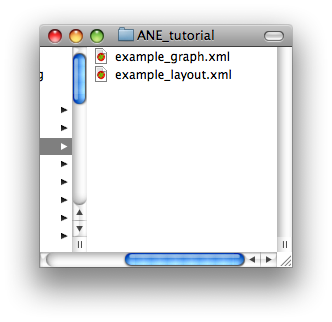
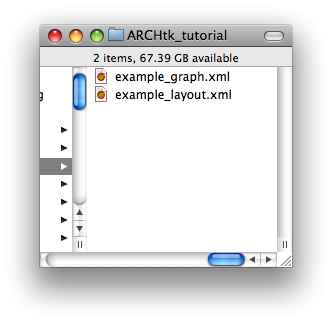
tutorial is being implemented

diff --git a/tutorial.html b/tutorial.html
@@ -9,14 +9,14 @@ title: Tutorial
     <div class="screenshot_container">
             <img class="screenshot" src="media/mainWindow.png" alt="Starting screen">
     </div>
-You see the toolbar on the top, some other tool buttons on the left and the editing area (the light gray dotted portion) in the middle of the screen.<br />The status bar at the bottom of the screen provides messages on the application status (now it says 'Ready') and also useful hints about the functionalities of the tools when the mouse is on any icon. All the functionalities displayed on the screen can also be accessed from the menu bar at the top of the screen.<br /><br />Selecting the green 'PLUS' icon (addSegment tool) on top of the left buttons allows you to create new edges of the network. Just click in the editor area, drag and release.
+You see the toolbar on the top, some other tool buttons on the left and the editing area (the light gray dotted portion) in the middle of the screen.<br />The status bar at the bottom of the screen provides messages on the application status (now it says 'Ready') and also useful hints about the functionalities of the tools when the mouse is on any icon. All the functionalities displayed on the screen can also be accessed from the menu bar at the top of the screen (the menu bar is not shown in the picture).<br /><br />Selecting the <b>'GREEN PLUS'</b> icon (addSegment tool) on top of the left buttons allows you to create new edges of the network. Just click in the editor area, drag and release.
     <div class="screenshot_container">
             <img class="screenshot" src="media/firstEdgeCreation.png" alt="First edge">
     </div>
 The showGrid and snapToGrid options are activated by default. If you don't like them, just deselect the corresponding icons in the toolbar.
     <div class="icons_container">
-            <img class="icon" src="media/grid.png" alt="First edge">
-            <img class="icon" src="media/snapToGrid.png" alt="First edge">
+            <img class="icon" src="media/grid.png" alt="Grid">
+            <img class="icon" src="media/snapToGrid.png" alt="Snap to Grid">
     </div>
 You can add other edges by clicking, dragging and releasing.<br />
      <div class="screenshot_container">
@@ -26,28 +26,27 @@ Clicking on a node when the mouse-cursor is close to it (the node is yellow-high
     <div class="screenshot_container">
             <img class="screenshot" src="media/connectedEdges.png" alt="Connected edges">
     </div>
-The same applyies on mouse release: releasing the mouse when the cursor is close to a node (again, yellow-highlighted), connects the edge the edges owning the node.
+The same applyies on mouse release: releasing the mouse when the cursor is close to a node (again, yellow-highlighted), connects the edge to the edges owning the node.
     <div class="screenshot_container">
             <img class="screenshot" src="media/moreConnections.png" alt="More connections">
     </div>
-After all this work, it's time to save our network. Click on the 'DISK' icon in the toolbar, insert the name (example) and the location (ARCH Network Editor tutorial: ANE_tutorial folder) you want the network to be saved and that's it!
+After all this work, it's time to save our network. Click on the <b>'DISK'</b> icon in the toolbar, insert the name (here we use example) and the location (for us ARCHtk: ARCHtk_tutorial folder) you want the network to be saved in and that's it!
     <div class="screenshot_container">
             <img class="screenshot" src="media/exampleSaved.png" alt="Example has been saved">
     </div>
-Let's have a look at the files the application has saved. 
+The name of the network is written at the top of the window application: before it was 'untitled', now it is 'example'.<br />Let's have a look at the files the application has saved. 
     <div class="screenshot_container">
             <img class="smallShot" src="media/exampleFolder.png" alt="Files in the folder">
     </div>
-There is an example_graph.xml file and an example_layout.xml file. The first (_graph.xml) has all the information about how nodes and edges are connected, while the second (_layout.xml) stores the graphical appearance of the network.<br />
-This two files (and also the _mesh.xml file that we will see later) should always stay in the same folder to allow the application to work with them.<br />Going back to our example, click on an edge and drag to make it to become curved. 
+There is an example_graph.xml file and an example_layout.xml file. The first (_graph.xml) has all the information about how nodes and edges are connected, while the second (_layout.xml) stores the graphical appearance of the network.<br />These two files (and also the _mesh.xml file that we will see later) should always stay in the same folder to allow the application to work with them.<br />Going back to our example, click on an edge (still with the addSegment tool selected) and drag to make it to become curved. 
     <div class="screenshot_container">
             <img class="screenshot" src="media/curvedEdge.png" alt="The edge is curved now">
     </div>
-This is useful when you have an intricated network and you want to see something which is beyond one edge.<br /><br />If you select the red 'CROSS' icon (removeSegment tool) below the addSegment icon, you can remove edges form the network.
+This is useful when you have an intricated network and you want to see something which is beyond one edge.<br /><br />If you select the <b>'RED CROSS'</b> icon (removeSegment tool) below the addSegment icon, you can remove edges form the network by clicking on them.
     <div class="screenshot_container">
             <img class="screenshot" src="media/edgeRemoved.png" alt="The edge has been removed">
     </div>
-UNDO - REDO functionalities are provided in order to recover if any mistake has been done.<br />The slitSegment tool (scissors icon) splits edges in two, dividing them at their middle point. If the edge is too short, the splitting cannot be done.
+UNDO - REDO functionalities are provided in order to recover if any mistake has been done.<br />The slitSegment tool (<b>'SCISSORS'</b> icon) splits edges in two, dividing them at their middle point. If the edge is too short, the splitting cannot be done.
     <div class="screenshot_container">
             <img class="screenshot" src="media/splitEdge.png" alt="The edge has been split">
     </div>
@@ -59,6 +58,66 @@ If you click on selected items, you can move them.
     <div class="screenshot_container">
             <img class="screenshot" src="media/movedElements.png" alt="The edge has been split">
     </div>
-</p>
-    
+Clicking on the removeEdge tool makes the selected edges to be deleted.
+    <div class="screenshot_container">
+            <img class="screenshot" src="media/removedSelected.png" alt="Selected edges have been removed">
+    </div>
+The information tool (<b>'BLUE ROUNDED i'</b> icon) allows the editing of the characteristics of the elements. Select this tool and click on a node.
+    <div class="screenshot_container">
+            <img class="screenshot" src="media/nodeEditing.png" alt="Selected edges have been removed">
+    </div>
+The editing window appears. It is divided in two portions: the upper displays the information of the element that you can edit, the lower reports the XML representing the element. There is also a 'message line' that displays messages regarding the validity of the inserted information. It also changes its color: green if everything is fine, red otherwise.<br />Double click on the line that you want to edit ('name' in this case), enter the information ('foo') and click on the <b>'APPLY'</b> button to accept it. The same result is obtained by clicking the <b>'OK'</b> button, but this makes the editing window to disappear. 
+    <div class="screenshot_container">
+            <img class="screenshot" src="media/editingAccepted.png" alt="Selected edges have been removed">
+    </div>
+The name is now reported in the XML too. If you don't want the XML to be shown, deselect the <b>'SHOW/HIDE DOM'</b> functionality.
+    <div class="icons_container">
+            <img class="icon" src="media/show_dom.png" alt="Show / Hide dom">
+    </div>
+In case you don't want to accept the changes, click the <b>'RED CROSS'</b> icon or the <b>'RESET'</b> icon.
+    <div class="icons_container">
+            <img class="icon" src="media/cancel.png" alt="Cancel">
+            <img class="icon" src="media/reset.png" alt="Reset">
+    </div>
+Also here, REDO and UNDO functionalities are provided.<br />Now that the node has a name, click on the <b>'LABEL'</b> icon in the toolbar to make the name to be shown.
+    <div class="screenshot_container">
+            <img class="screenshot" src="media/shownName.png" alt="Selected edges have been removed">
+    </div>
+Now select the 'name' property in the editing area and click on the <b>'Add child element icon'</b>.
+    <div class="icons_container">
+            <img class="icon" src="media/add_child.png" alt="Add child element">
+    </div>
+The 'properties' field appears. Again, select it and click on the <b>'Add child element icon'</b> to add new characteristics. To remove fields, use the <b>'REMOVE ELEMENT'</b> function.
+    <div class="icons_container">
+            <img class="icon" src="media/remove_element.png" alt="Remove element">
+    </div>
+If any field is mandatory, it cannot be removed.<br />In this way, you can enter any kind of information needed to perform the simulation. We'll see how to launch a simulation later on.<br /><br />Now we'll see how to import an existing network. If the network has not been generated by the ARCH Network Editor, it consists of astand alone XML file. Click on the <b>'IMPORT NETWORK'</b> icon, select the network (test.xml in this case) and the application loads it.
+    <div class="screenshot_container">
+            <img class="screenshot" src="media/testNet.png" alt="Imported netwrok">
+    </div>
+The nodes position is not specified in the xml file we've imported (there is not the _layout.xml file, do you remember?), thus a random position has been assigned to every node. Click on the <b>UNRAVEL</b> icon (maybe more than once)
+    <div class="icons_container">
+            <img class="icon" src="media/unravel.png" alt="Remove element">
+    </div>
+to disentangle the network.
+    <div class="screenshot_container">
+            <img class="screenshot" src="media/unravelledNet.png" alt="Imported netwrok">
+    </div>
+If you want the position of any node to be blocked during this operation, select the node and click on the <b>BLOCK NODE POSITION'</b> icon. The blocked nodes have a dark red contour and do not move when the net is disentangled.
+    <div class="screenshot_container">
+            <img class="screenshot" src="media/blockedNodes.png" alt="Imported netwrok">
+    </div>
+On the contrary, if you import a network previously saved by the application using the <b>'OPEN NETWORK'</b>, the nodes position is not randomly assigned, but is taken from the _layout.xml file. That's the reason why the _graph.xml file and the _layout.xml file must stay in the same directory.<br />To see that, save the network you have imported using the 'save as...' function. We use 'newExample' as name. Click on the <b>'NEW NETWORK'</b> icon to empty the editing area and open the network you have just saved.
+    <div class="screenshot_container">
+            <img class="screenshot" src="media/newExample.png" alt="Imported netwrok">
+    </div>
+The network cannot be seen in its completeness, thus use <b>'TRANSLATE'</b> or <b>'ZOOM IN'</b> or <b>'ZOOM OUT'</b>. To go back to the initial view (in terms of zooming and screen translation), click on the <b>'RESET VIEW'</b> icon.
+</p>   
 </div>
+
+
+
+
+
+
+

diff --git a/index.html b/index.html
@@ -5,6 +5,5 @@ title: Home
 
 <h2>Welcome</h2>
 <div class="description">
-    <p>The ARCH Network Editor has been developed in the context of the ARCH FP7 project.<br /><br />It allows the creation of model-based patient-specific vascular networks to be used for blood flow simulations. Simulations are carried out with the pyNS solver, which, beyond running the simulations, provides network meshing capabilities.<br />Elements characteristics, simulation parameters and boundary conditions can be easily defined before performing the simulations.<br />Simulation results are then dispalyed, allowing fluid-dynamic evaluations.</p>
-    
+    <p>The archTk is an open-source toolkit developed in the context of the ARCH FP7 project. It is currently composed of the ARCH Network Editor and the pyNS solver.<br /><br />It allows the creation of model-based patient-specific vascular networks to be used for blood flow simulations. Simulations are carried out with the pyNS solver, which, beyond running the simulations, provides network meshing capabilities.<br />Elements characteristics, simulation parameters and boundary conditions can be easily defined before performing the simulations.<br />Simulation results are then dispalyed.</p>
 </div>

diff --git a/dataRepo.html b/dataRepo.html
@@ -5,7 +5,7 @@ title: Data Repository
 
 <h2>Data Repository</h2>
 <div class="description">
-    <p>Here's the place where you can get already analyzed cases, from the plain network to the simulation results, passing through the mesh and simulation parameters.
+    <p>Here's the place where you can get cases for use with archTk.
         <div class="button_container">
             <a class="button" href="https://github.com/archTk/arch-ne-cases" target="_blank">Go to the data repository</a>
         </div>
